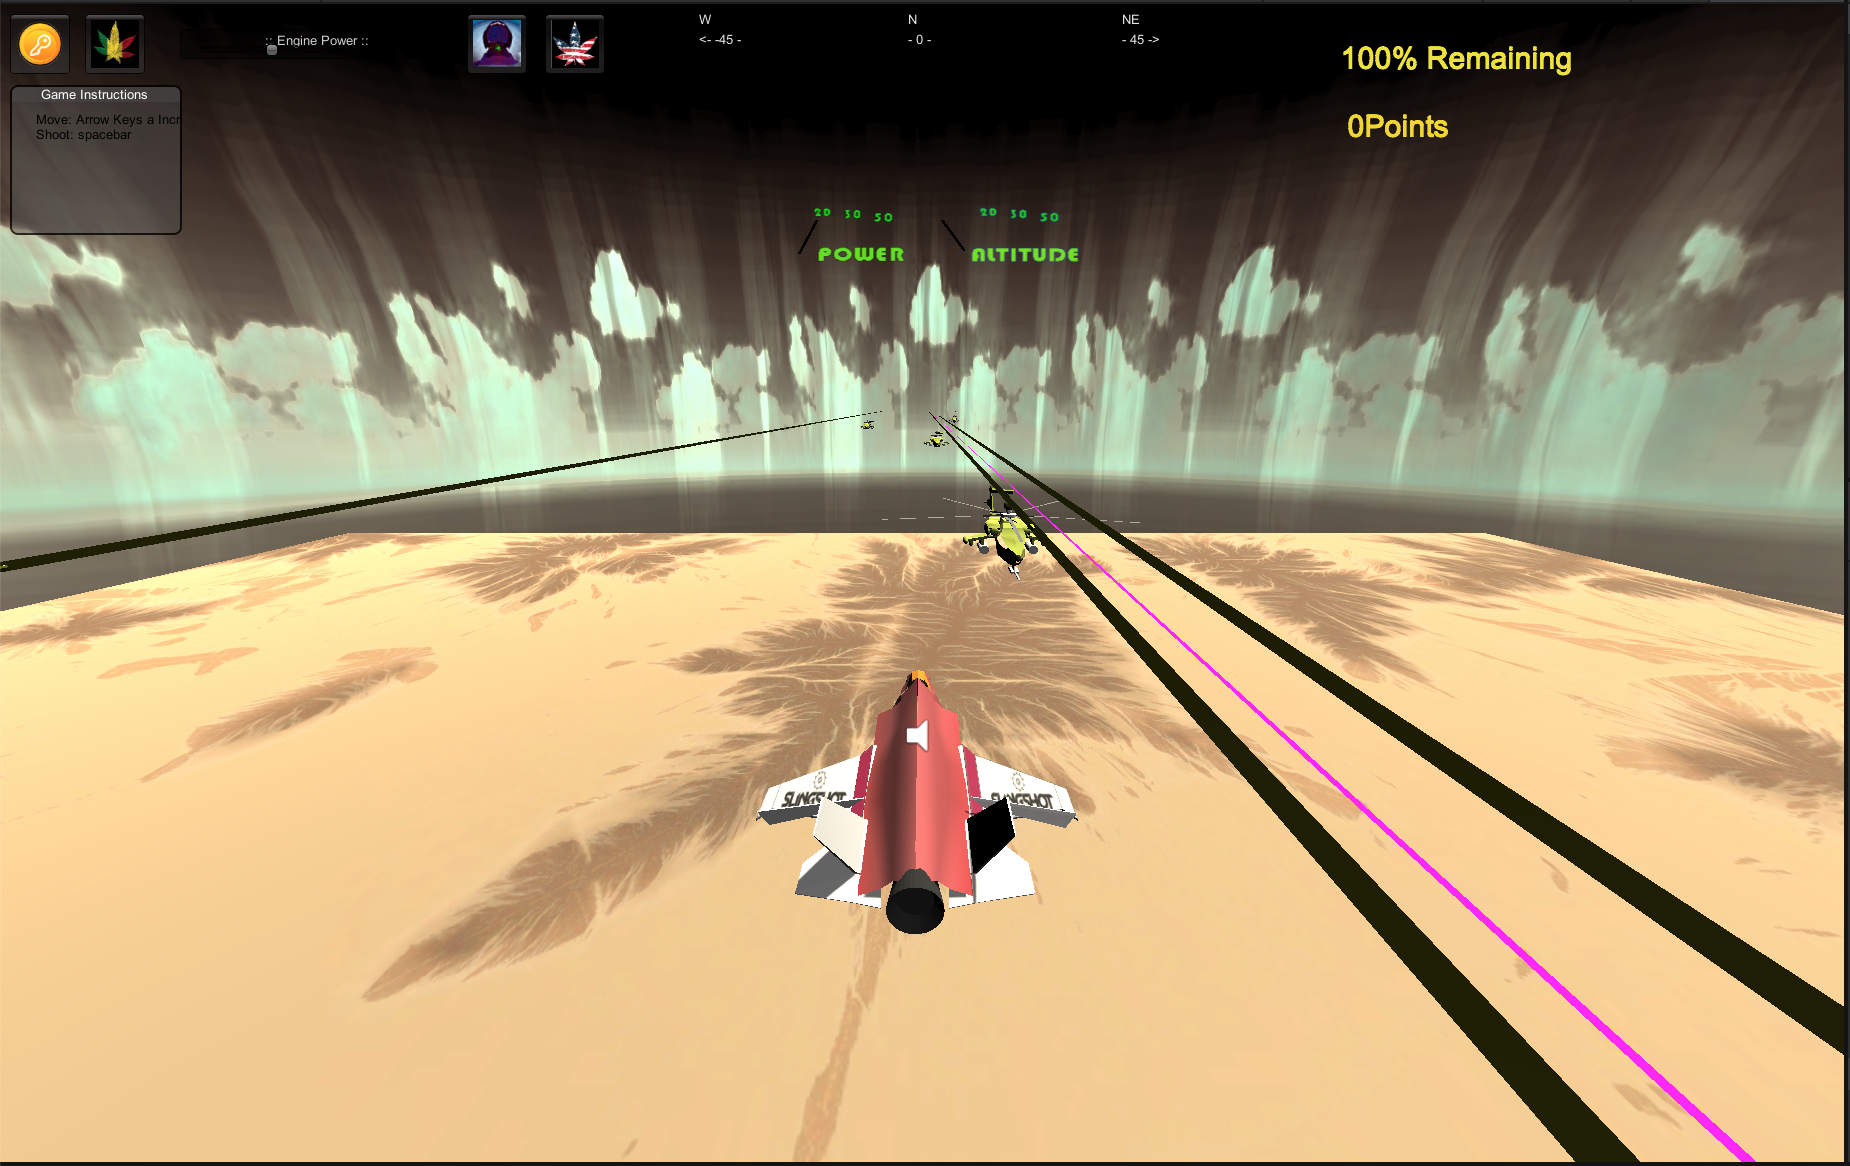
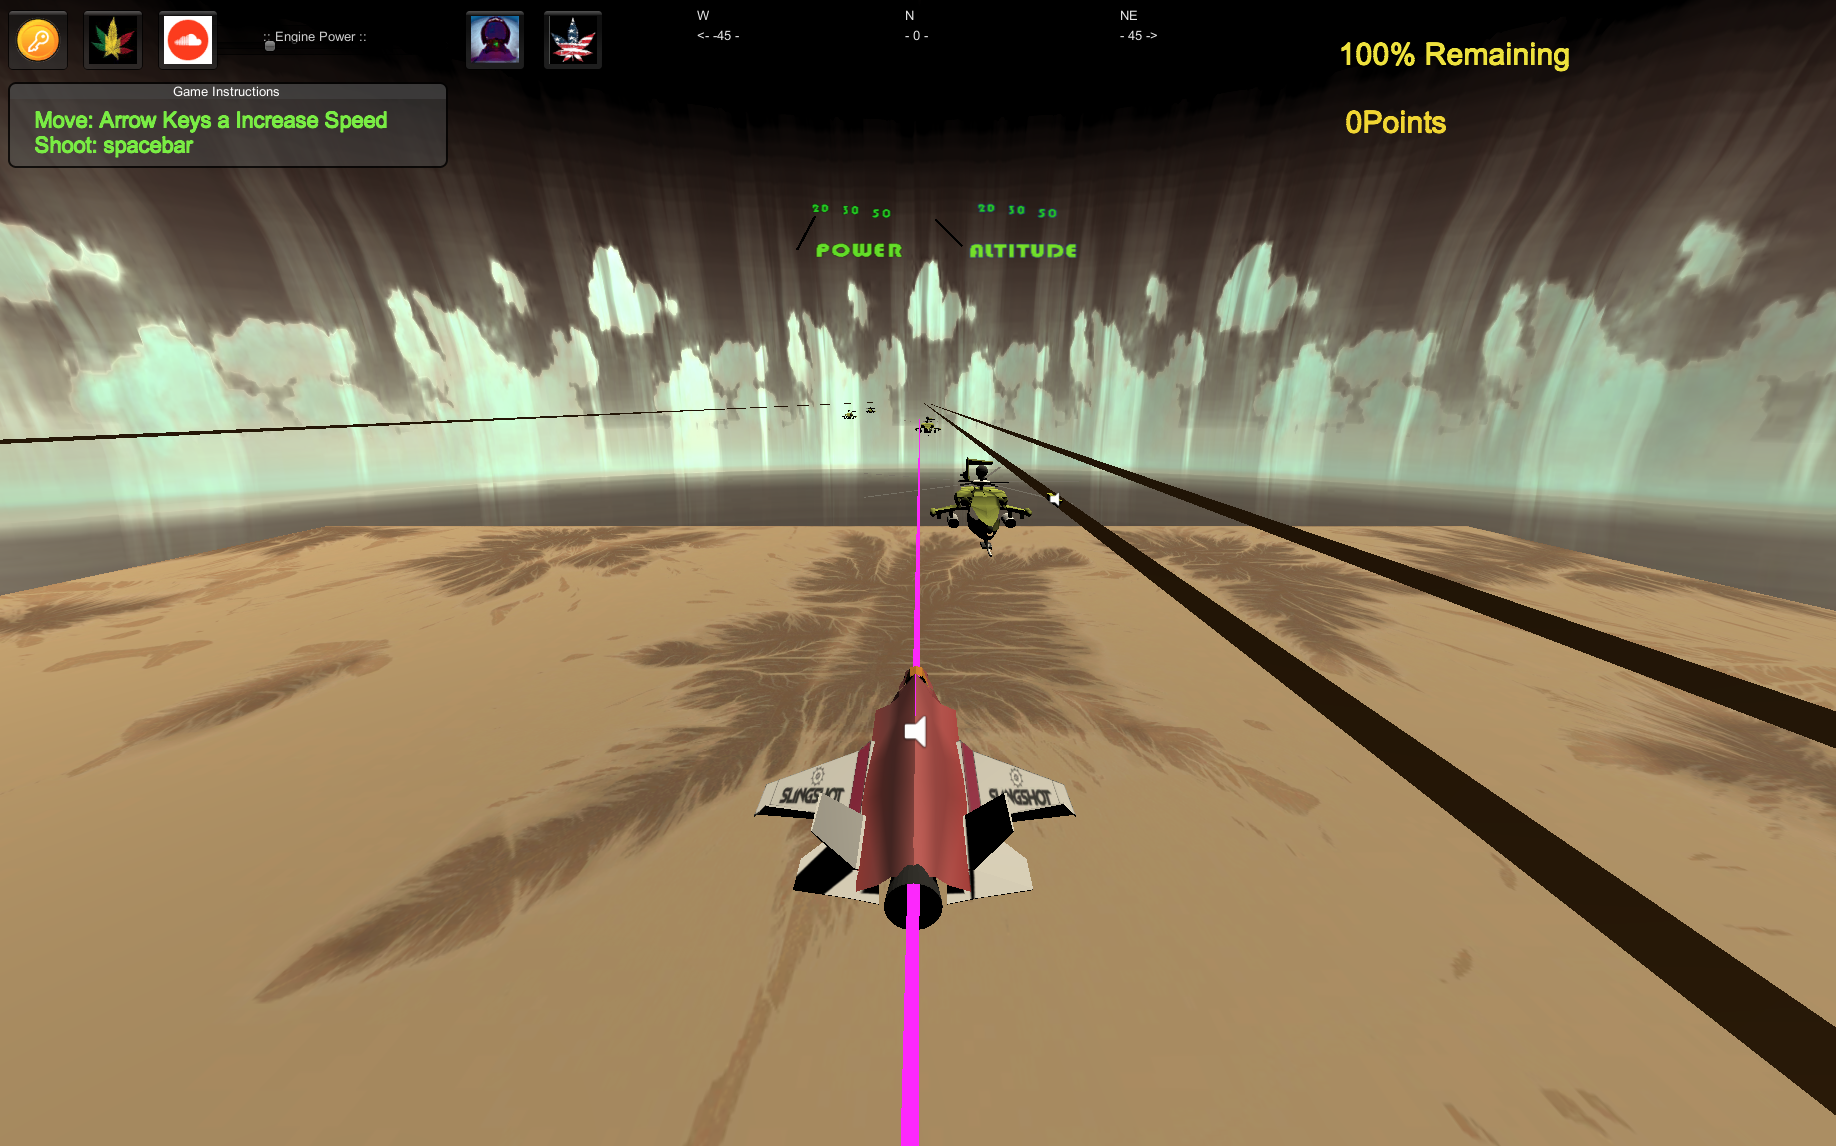
amon tobin yasawas ...

diff --git a/README.md b/README.md
@@ -7,5 +7,10 @@ Advancing a kitesurf tally was the original purpose of this game, I need money t
 
 https://www.paypal.com/paypalme/gospelOfLuke/25
 
+I imitated the sound behind an apocalipse now scene which is written somewhere in the Real Book of jazz but with different pitch, hope you liked the shrimp. 
+
+Goa Morte Music Loop: https://soundcloud.com/dorje-trolo/goamorte
+
+
 [![dj krush ... ](https://raw.githubusercontent.com/rgarro/Martin/refs/heads/master/martin.png)]
 
